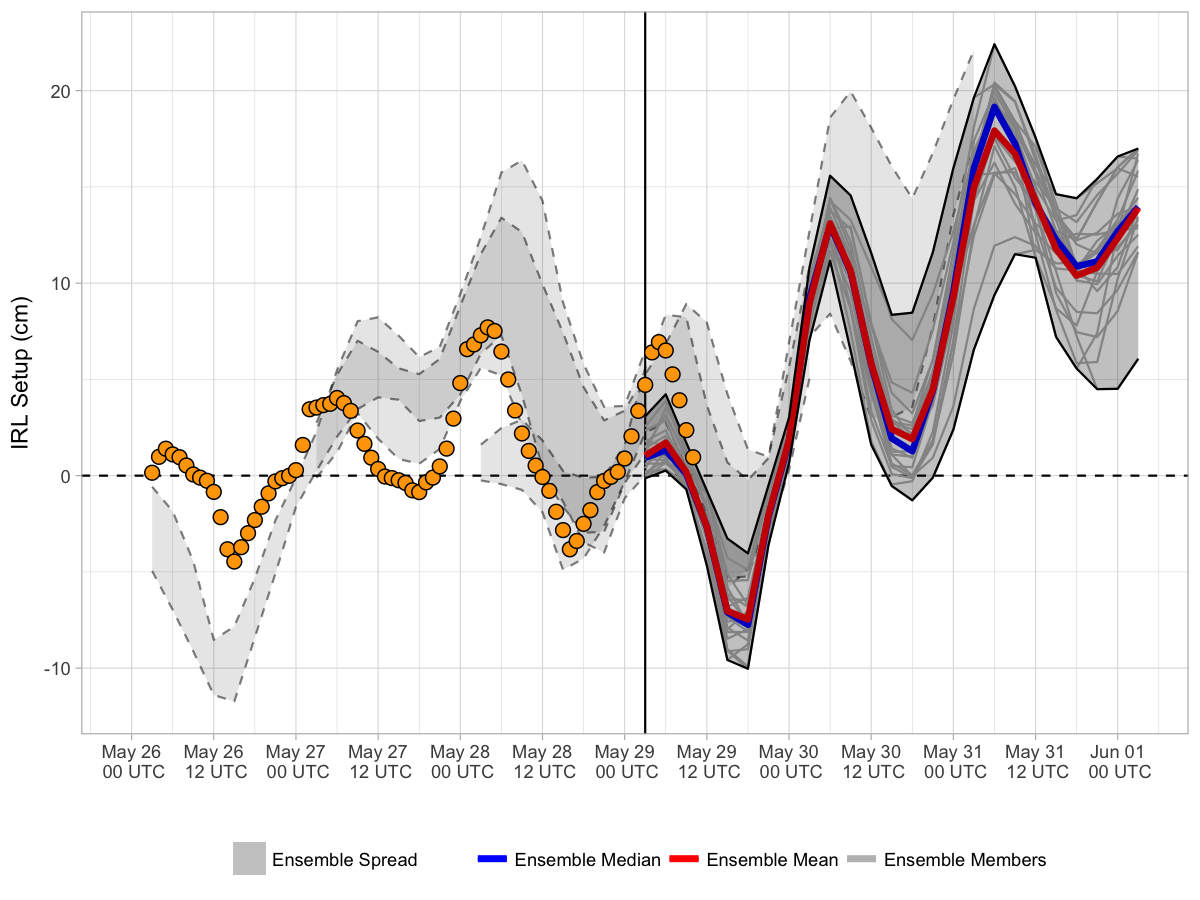
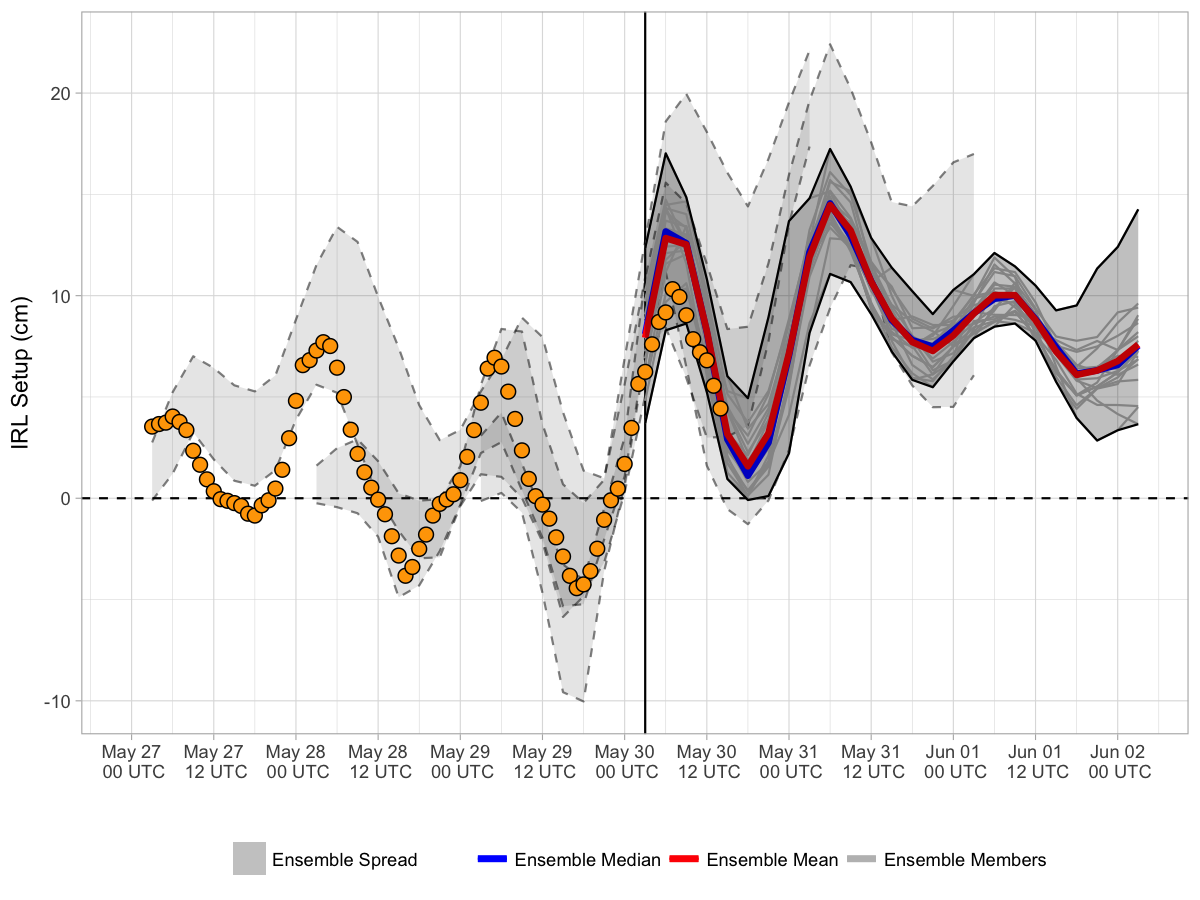
20170530 forecast update

diff --git a/docs/index.md b/docs/index.md
@@ -3,7 +3,7 @@ Current Forecast
 
 [![](img/raw_setup.png)](https://bhlmn.github.io/IRLSetup/img/raw_setup.png)
 
-> Forecast valid 2017-05-29 06:48:22.
+> Forecast valid 2017-05-30 10:25:55.
 
 Explanation
 -----------
@@ -15,7 +15,7 @@ water elevation in the northern IRL (near Titusville), and negative
 setup indicates the increase elevation in the southern IRL (near
 Sebastian). The x-axis displays the date and time in UTC. The solid
 vertical line represents the beginning of the most recent ensemble
-forecast (currently 2017-05-28 18:00:00). For this most recent forecast,
+forecast (currently 2017-05-29 18:00:00). For this most recent forecast,
 the ensemble spread (grey shading) is bound by solid black lines, with
 individual members represented by faint grey lines. The ensemble mean
 and median for this are represented by the red and blue curves,
